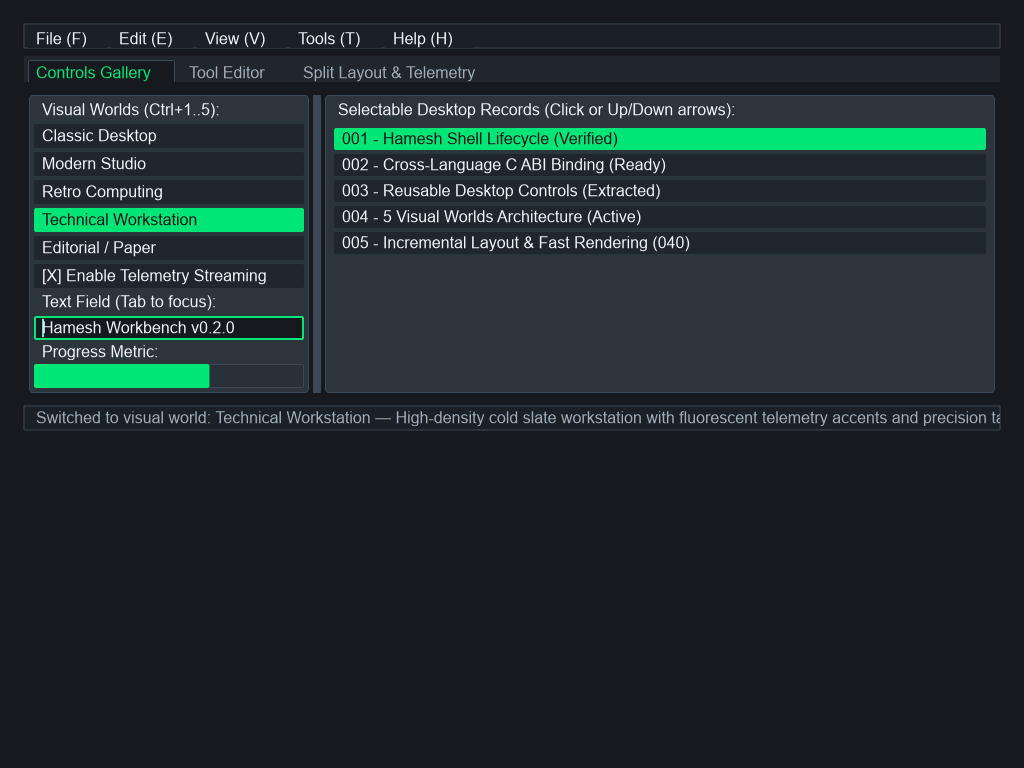
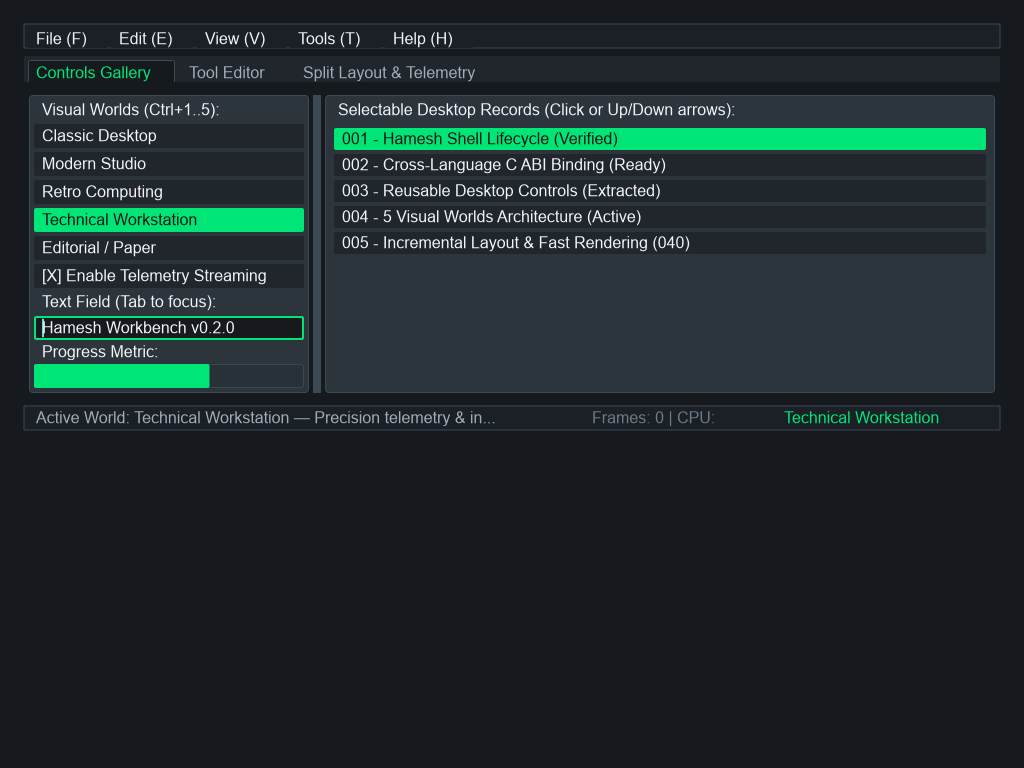
fix(043): concise status bar messages with deliberate ellipsis and fresh visual receipts

Changed region(s): [[0.0312, 0.5312, 0.9688, 0.5625]]

diff --git a/apps/hamesh-workbench/src/main.rs b/apps/hamesh-workbench/src/main.rs
@@ -274,11 +274,15 @@ impl WorkbenchApp {
         self.world = world;
         let tag = format!("{} [{}]", world.label(), world.name());
         self.status_bar.set_profile_tag(tag);
-        self.status_bar.set_message(format!(
-            "Switched to visual world: {} — {}",
-            world.label(),
-            world.description()
-        ));
+        let summary = match world {
+            VisualWorld::ClassicDesktop => "Dense utilitarian workstation layout",
+            VisualWorld::ModernStudio => "Contemporary dark creative suite",
+            VisualWorld::RetroComputing => "High-contrast phosphor CRT terminal",
+            VisualWorld::TechnicalWorkstation => "Precision telemetry & instrument grid",
+            VisualWorld::EditorialPaper => "Warm bookish literary environment",
+        };
+        self.status_bar
+            .set_message(format!("Active World: {} — {}", world.label(), summary));
     }
 
     pub fn execute_command(&mut self, cmd: &str, ctx: &mut ShellContext) {

diff --git a/crates/hamesh-widgets/src/desktop.rs b/crates/hamesh-widgets/src/desktop.rs
@@ -835,12 +835,19 @@ impl StatusBarControl {
         );
 
         let msg_id = format!("{}_msg", self.id);
+        let msg_text = if self.message.chars().count() > 65 {
+            let truncated: String = self.message.chars().take(62).collect();
+            format!("{}...", truncated)
+        } else {
+            self.message.clone()
+        };
+
         app.add(
             &self.id,
             Component::new(&msg_id, Role::Text, "Status Message")
                 .with_prop("flex_grow", "1")
                 .with_prop("color", "text_dim")
-                .with_prop("text", &self.message),
+                .with_prop("text", &msg_text),
         );
 
         if let Some(telem) = &self.telemetry {
